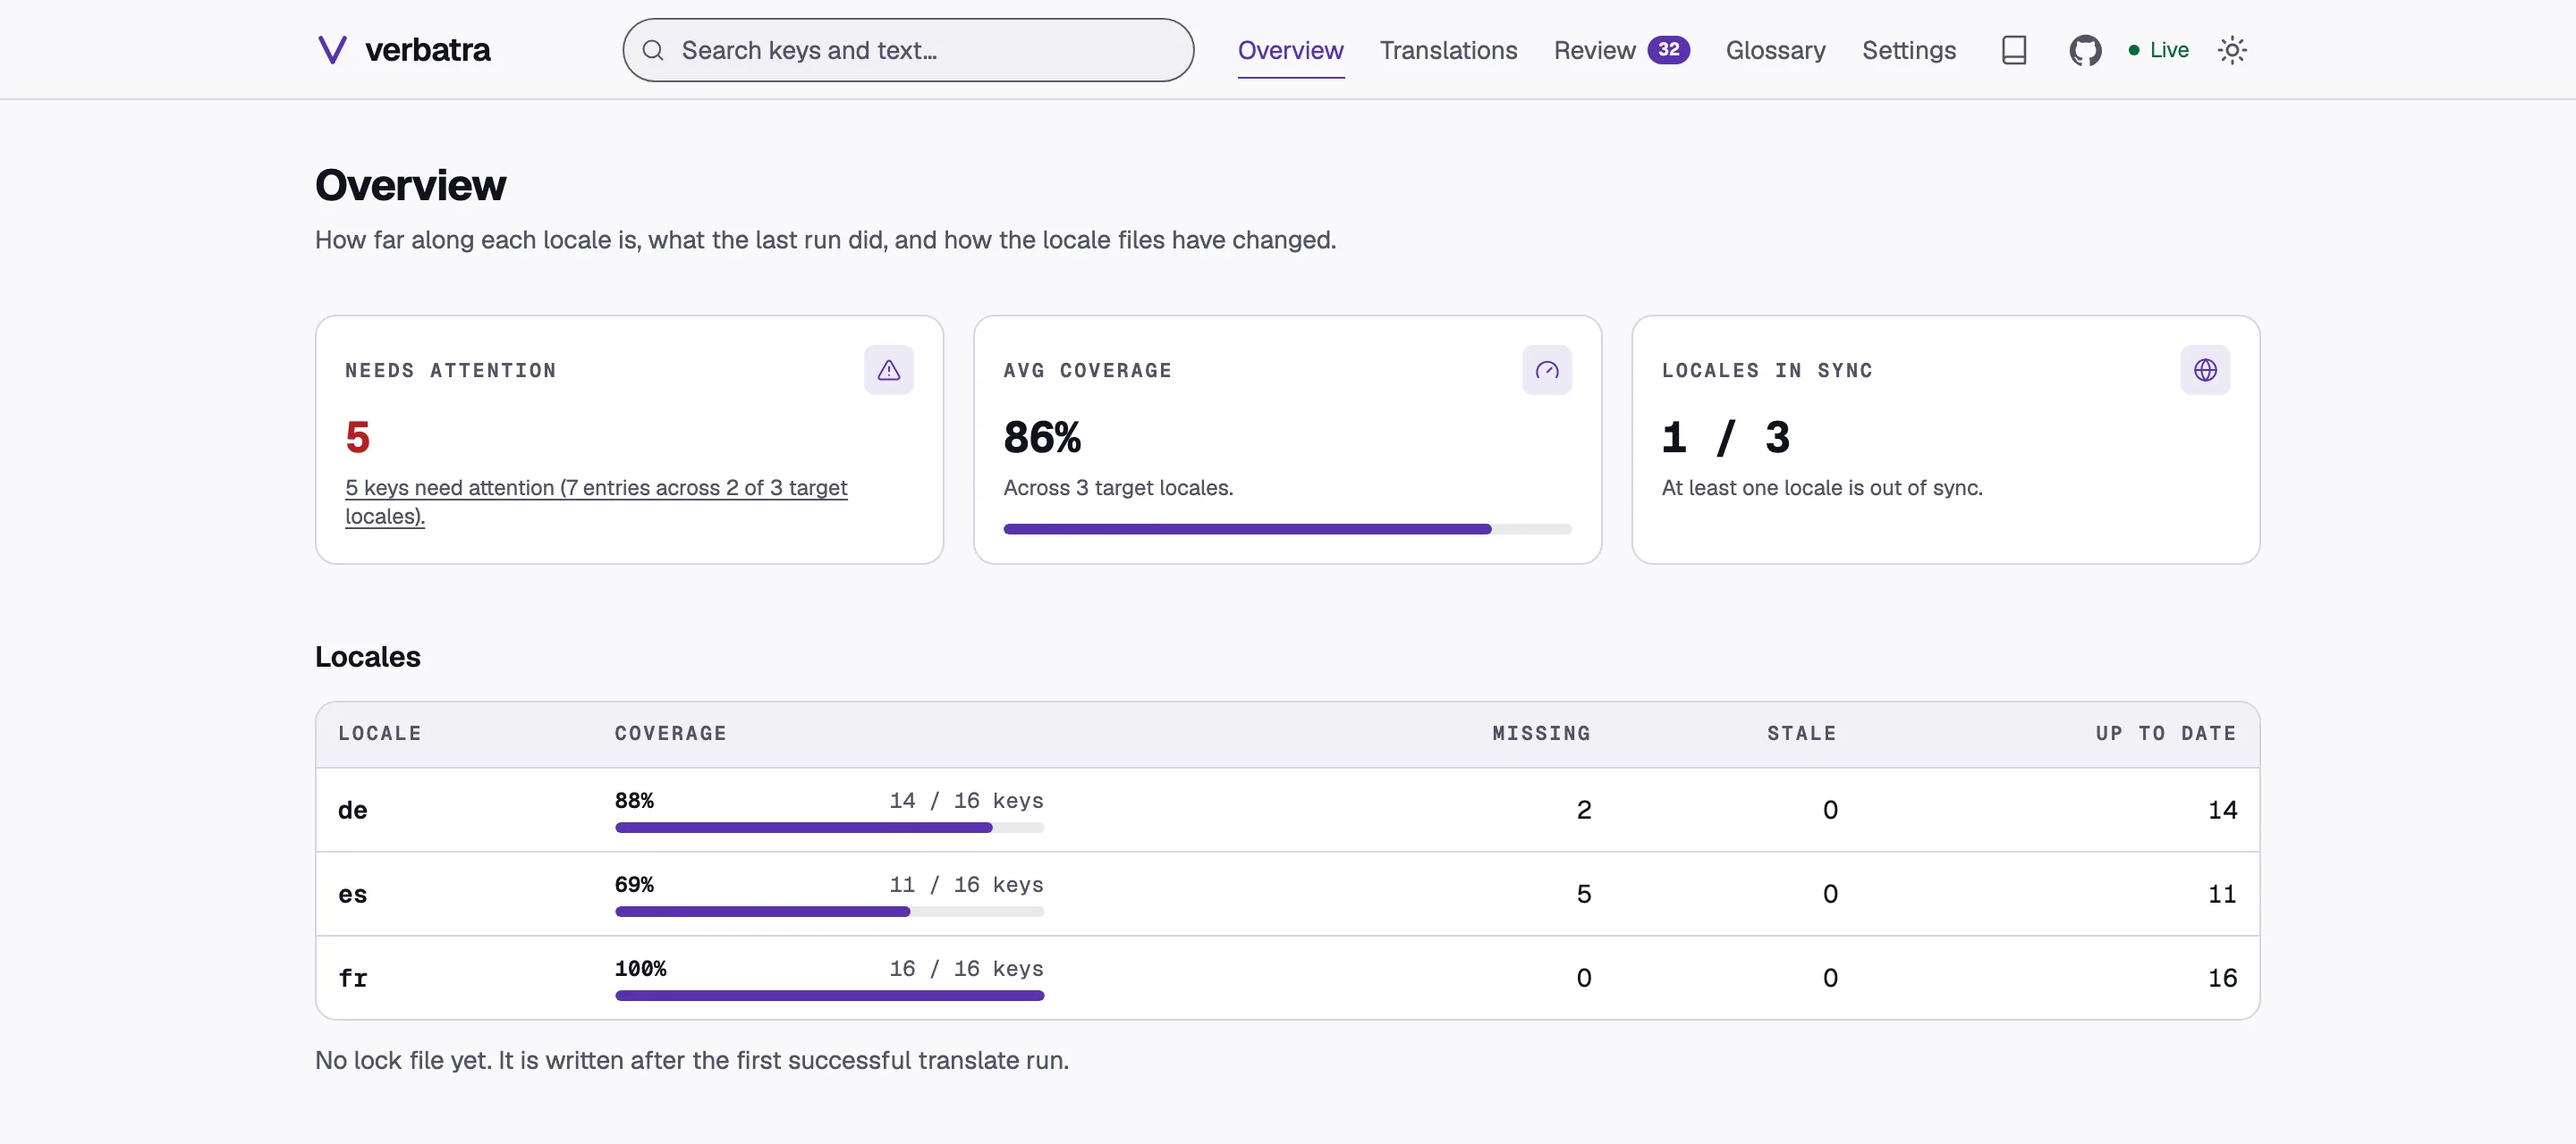
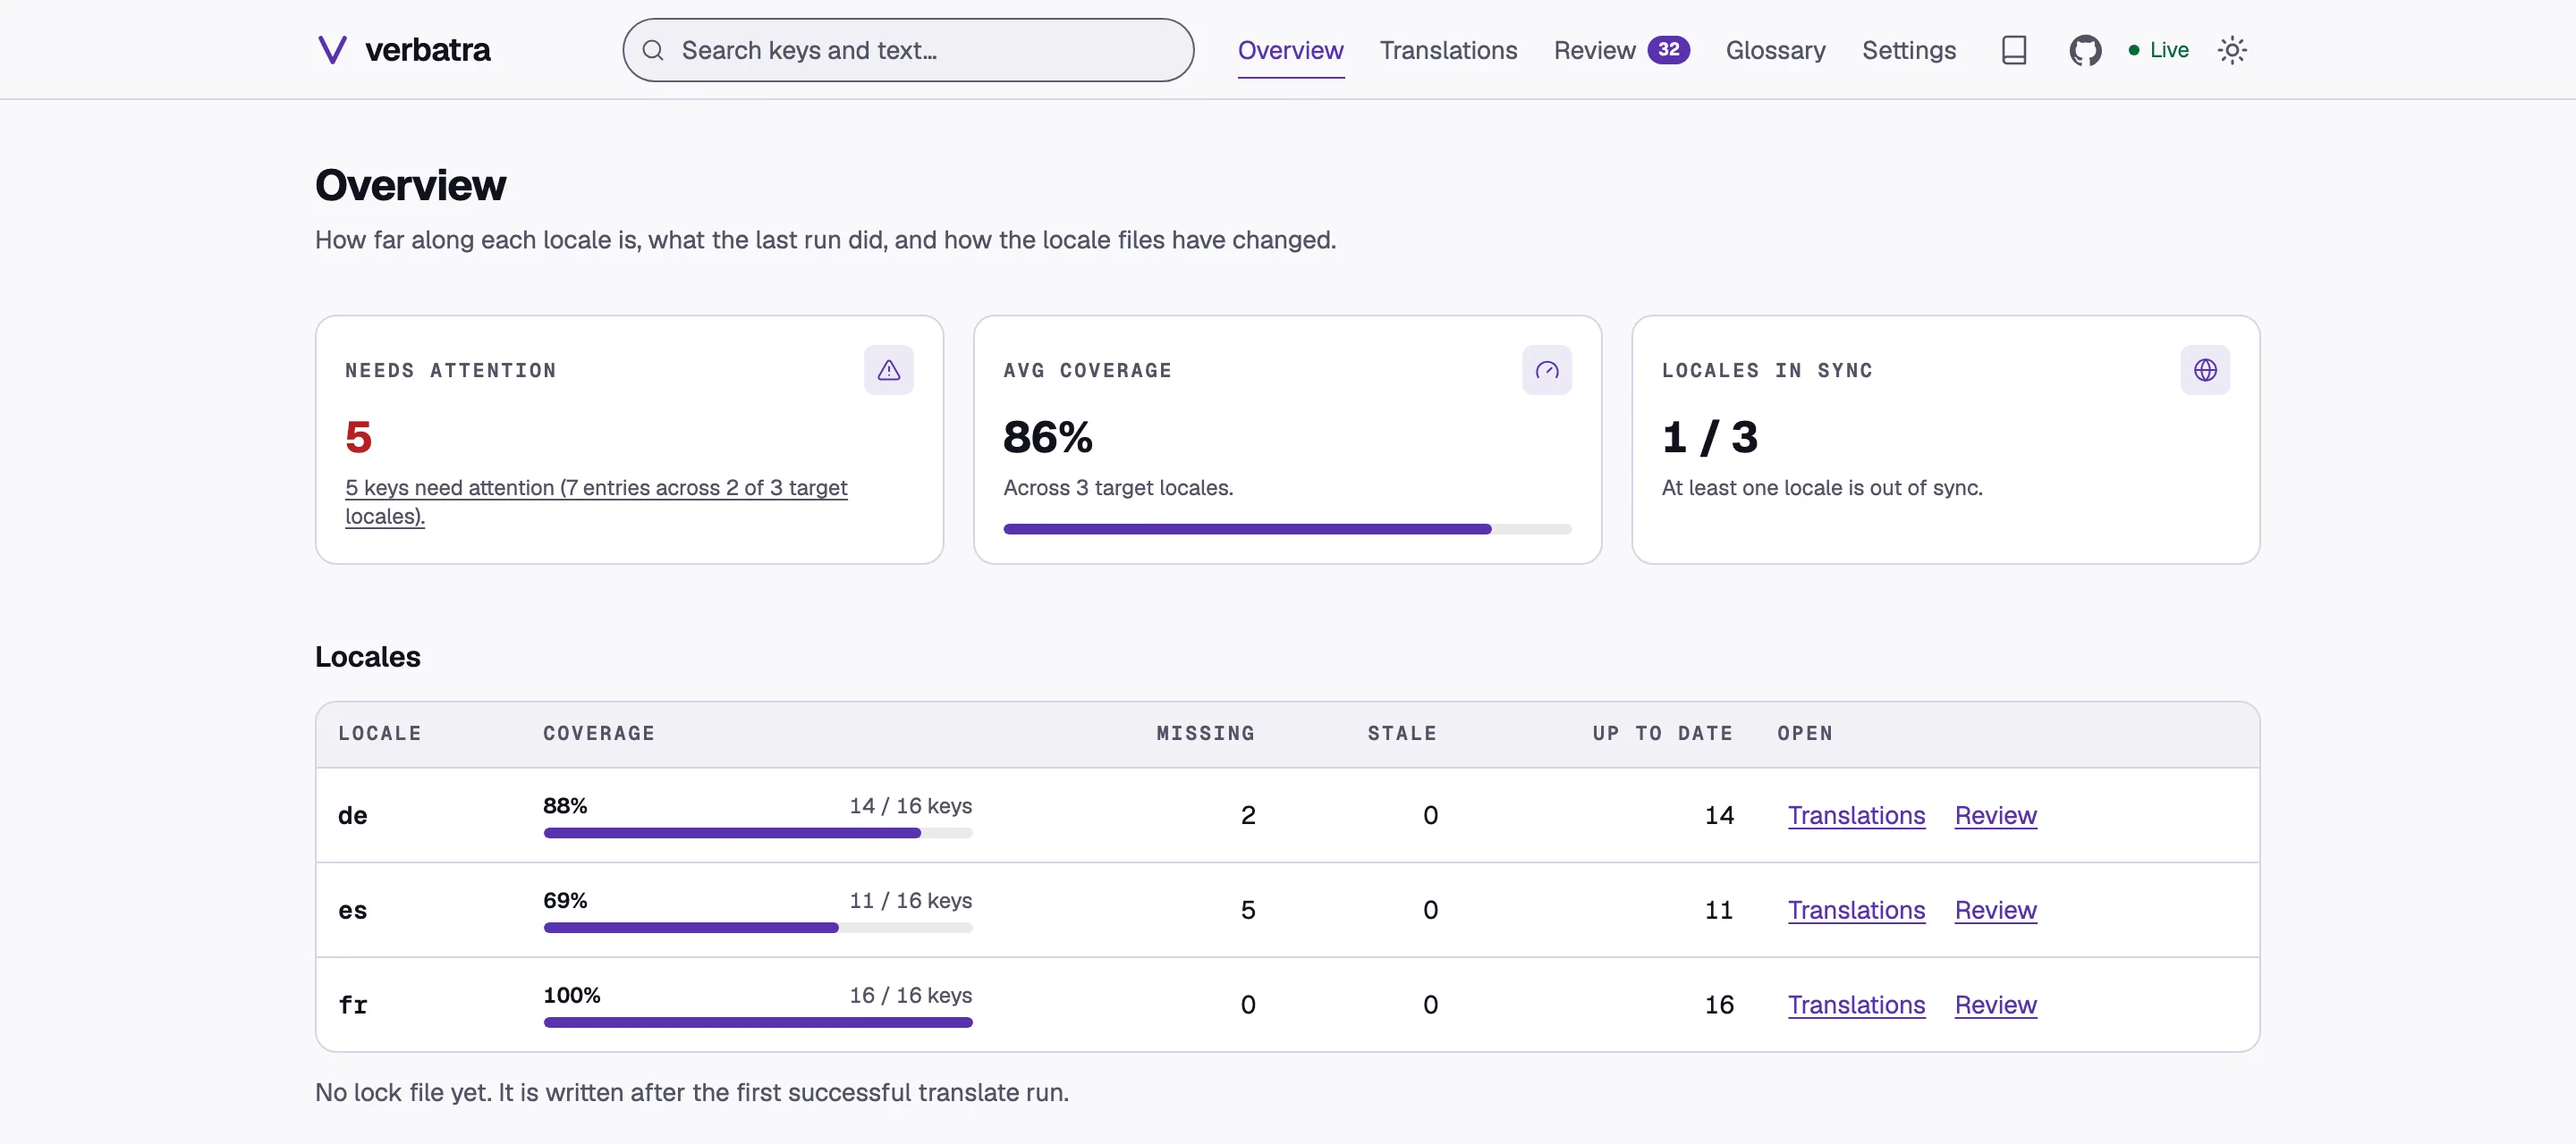
docs(studio): describe overview locale links and refresh the overview screenshots

diff --git a/.claude/skills/studio-ui/SKILL.md b/.claude/skills/studio-ui/SKILL.md
@@ -262,7 +262,15 @@ Rules that follow:
   Glossary and Settings, which read once, and are wired through `PAGE_PANELS` in `App.tsx` and
   `PAGE_LABELS`, `PAGE_ICONS` and `NAV_GROUPS` in `src/app/nav-groups.ts`. `DEFAULT_PAGE` in
   `src/client/routes.ts` is `overview`. Overview owns the metric row, the per-locale coverage
-  table, the last run and the locale file history; Translations is one `KeysTable` (the matrix of
+  table, the last run and the locale file history, in that order. Each coverage row links to
+  `#/translations?locale=` and `#/review?locale=` through `routeHash`, with a visible word and an
+  sr-only locale suffix so every link name is unique, and a `-outline-offset-2` focus ring because
+  the table card clips an outer one. Figures (`MetricCard` values, the coverage percentage and key
+  counts) are set in sans with `tabular-nums` and carry `data-figure`; mono is for identifiers
+  (keys, locale tags, hashes, paths). Text that is not focusable never gets a `title` or a
+  `Tooltip`: it wraps (`break-words` or `wrap-anywhere`) and shows its full value. Git text
+  (commit subject, author, paths) takes `dir="auto"`, locale tags and hashes `dir="ltr"`, and a
+  commit date is visible text inside `<time datetime>`. Translations is one `KeysTable` (the matrix of
   a status per locale, or one locale's entries with source, translation, status and origin) under
   `KeyFilters`, and keeps the editor; the glossary editor lives only on Glossary. Adding a page
   means adding it to `PAGE_IDS` and `PAGE_PARAMS` in `src/client/routes.ts` and to every one of

diff --git a/packages/studio/README.md b/packages/studio/README.md
@@ -46,7 +46,7 @@ The command prints `Verbatra Studio running at http://127.0.0.1:5849/?token=...`
 
 ## What it serves
 
-- **Overview**: the page Studio opens on. Coverage and lock state per locale, the git commit history of the source and target locale files, and the last run's token usage and budget.
+- **Overview**: the page Studio opens on. Coverage and lock state per locale, each with links to its keys and its review queue, the git commit history of the source and target locale files, and the last run's token usage and budget.
 - **Translations**: one table of every key that needs attention, with a status per locale. Pick a locale for its translation, status and origin; filter by state, review queue entries and integrity problems, or search any key's text, down to a per-key editor, beside the table on wide screens and in a drawer on narrow ones, with the source value, every target's current translation, who wrote it, and an unsaved-changes prompt.
 - **Review**: every machine-written translation nobody has approved yet, read from the committed files so the whole team sees the same queue. Approve, reject, or edit an entry side by side with its source, glossary terms, and integrity check, from the keyboard, in bulk, or a whole locale at once. Decisions are saved to `verbatra.provenance.json`, which `verbatra check --require-reviewed` gates on.
 - **Glossary**: the project glossary. A glossary the project keeps in a JSON file is editable here.

diff --git a/.changeset/studio-overview-glossary.md b/.changeset/studio-overview-glossary.md
@@ -4,7 +4,7 @@
 
 Studio opens on a new Overview page with coverage per locale, the last run and file history; the glossary has its own page.
 
-- **Overview:** the first page holds the status figures, a table of every locale's coverage and lock state, the last run's token usage and budget, and the git history of your locale files. It replaces the Activity page, and `#/activity` links keep working. The history lists the latest 10 commits, with a button for more, and the attention figure links to the missing, changed and orphaned keys.
+- **Overview:** the first page holds the status figures, a table of every locale's coverage and lock state, the last run's token usage and budget, and the git history of your locale files. It replaces the Activity page, and `#/activity` links keep working. The history lists the latest 10 commits, with a button for more, the attention figure links to the missing, changed and orphaned keys, and each locale row links to its keys and its review queue. Long labels, commit subjects and paths wrap, and commit dates read as text.
 - **Glossary:** the glossary is edited on its own page and no longer on Settings, which keeps the configuration and what the session may do.
 - **Translations:** the page now holds only the key table, its filters and the key editor.
 - **Default page:** an address without a page, or with an unknown one, opens Overview instead of Translations.
